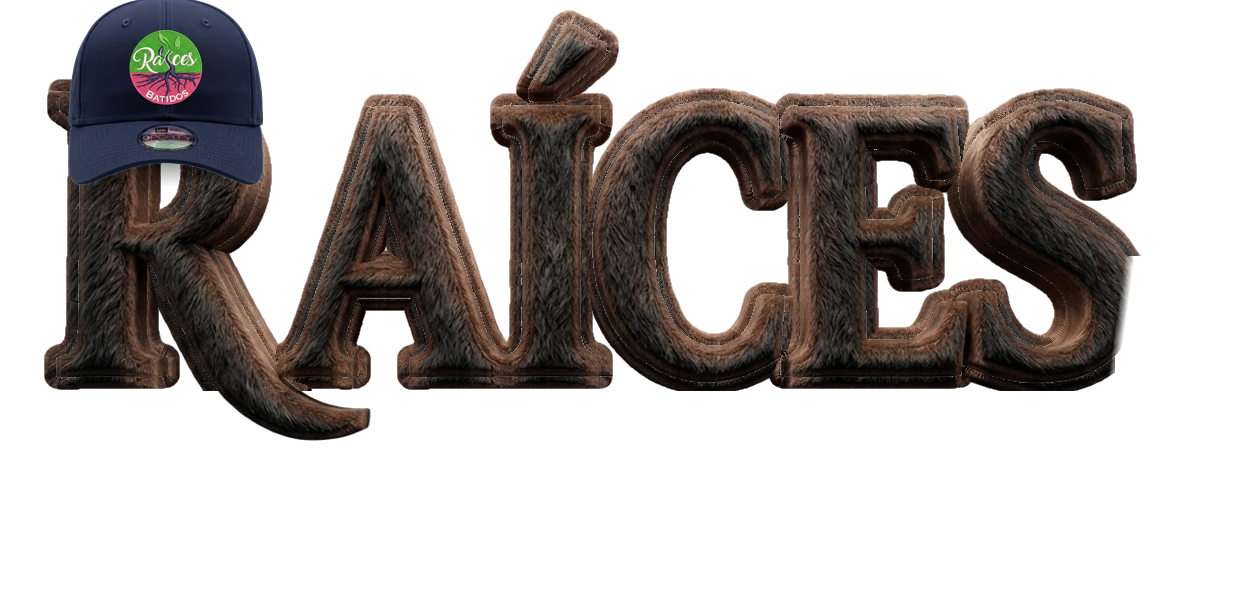
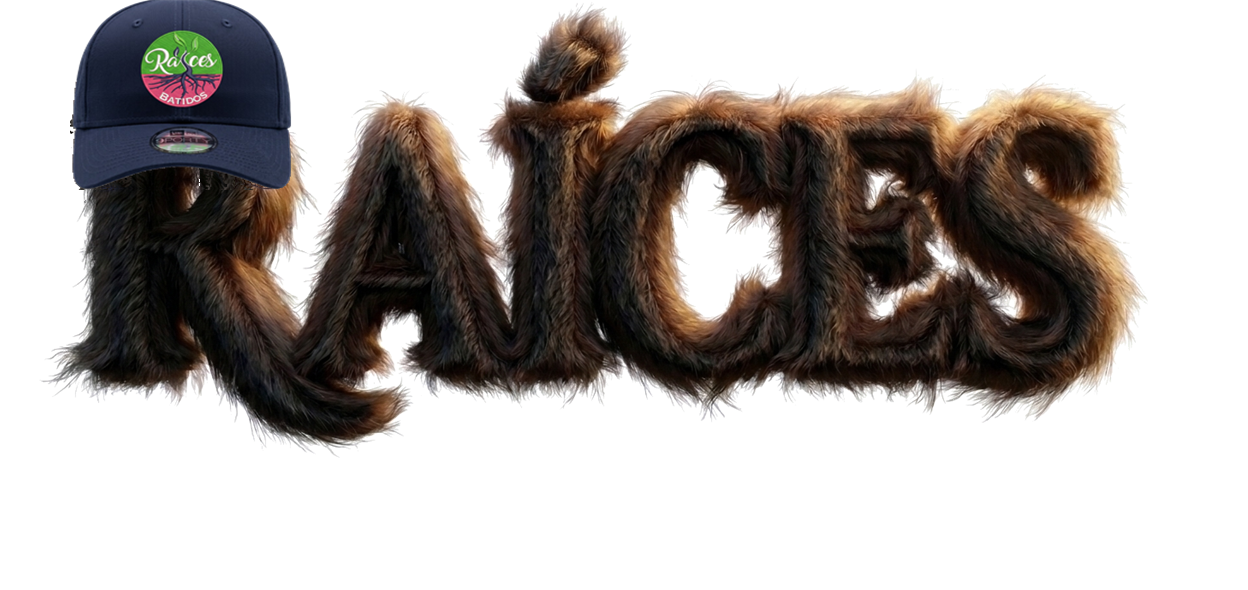
Mejora pelaje realista con brillo y matices en titulo hero del menu

diff --git a/src/main/resources/templates/menu.html b/src/main/resources/templates/menu.html
@@ -84,8 +84,8 @@ a{text-decoration:none;color:inherit}
 /* TÍTULO HERO ULTRA ELEGANTE BOTÁNICO + HÍBRIDO LEÓN 3D */
 .shine-luxury{background:linear-gradient(120deg,#ffffff 0%,#d1fae5 25%,#34d399 50%,#fef08a 75%,#ffffff 100%);background-size:250% 100%;-webkit-background-clip:text;background-clip:text;color:transparent;animation:luxuryGlow 7s ease-in-out infinite alternate;display:inline-block;filter:drop-shadow(0 0 28px rgba(52,211,153,.45)) drop-shadow(0 0 50px rgba(254,240,138,.25))}
 @keyframes luxuryGlow{0%{background-position:0% 50%;filter:drop-shadow(0 0 20px rgba(52,211,153,.35)) drop-shadow(0 0 40px rgba(16,185,129,.2))}50%{background-position:100% 50%;filter:drop-shadow(0 0 35px rgba(52,211,153,.6)) drop-shadow(0 0 65px rgba(254,240,138,.35))}100%{background-position:0% 50%;filter:drop-shadow(0 0 20px rgba(52,211,153,.35)) drop-shadow(0 0 40px rgba(16,185,129,.2))}}
-.hero-lion-3d{filter:drop-shadow(0 18px 34px rgba(0,0,0,.92)) drop-shadow(0 0 28px rgba(217,119,6,.35)) drop-shadow(0 0 40px rgba(16,185,129,.28));animation:lion3dFloat 6s ease-in-out infinite alternate;transform-origin:center center;will-change:transform,filter}
-@keyframes lion3dFloat{0%{transform:perspective(900px) translateY(0) scale(1) rotateX(0deg)}100%{transform:perspective(900px) translateY(-6px) scale(1.025) rotateX(2deg);filter:drop-shadow(0 24px 42px rgba(0,0,0,.96)) drop-shadow(0 0 36px rgba(245,158,11,.48)) drop-shadow(0 0 52px rgba(52,211,153,.38))}}
+.hero-lion-3d{filter:brightness(1.06) contrast(1.06) saturate(1.12) drop-shadow(0 18px 34px rgba(0,0,0,.92)) drop-shadow(0 0 28px rgba(217,119,6,.38)) drop-shadow(0 0 42px rgba(16,185,129,.28));animation:lion3dFloat 6s ease-in-out infinite alternate;transform-origin:center center;will-change:transform,filter}
+@keyframes lion3dFloat{0%{transform:perspective(900px) translateY(0) scale(1) rotateX(0deg)}100%{transform:perspective(900px) translateY(-6px) scale(1.025) rotateX(2deg);filter:brightness(1.12) contrast(1.08) saturate(1.16) drop-shadow(0 24px 42px rgba(0,0,0,.96)) drop-shadow(0 0 38px rgba(245,158,11,.52)) drop-shadow(0 0 54px rgba(52,211,153,.38))}}
 .chimp-tail-wag{transform-origin:90.0% 45.2%;animation:chimpTailWag 3.4s ease-in-out infinite;will-change:transform}
 @keyframes chimpTailWag{0%{transform:rotate(0deg) skewX(0deg)}25%{transform:rotate(4.2deg) skewX(2.5deg)}50%{transform:rotate(-1.2deg) skewX(-1deg)}75%{transform:rotate(-5.2deg) skewX(-3deg)}100%{transform:rotate(0deg) skewX(0deg)}}
 
@@ -403,8 +403,8 @@ section>.max-w-7xl{position:relative;z-index:2}
     
     <h1 class="hero-in mb-2 sm:mb-4 select-none leading-none flex items-center justify-center relative z-20" style="--d:.12s">
         <div id="hero-lion-title-wrap" class="hero-lion-3d relative inline-block w-[92vw] max-w-[440px] sm:max-w-[640px] md:max-w-[780px] lg:max-w-[900px]" style="overflow:visible">
-            <img id="hero-logo-cola-3d" src="titulo-raices-cola.png?v=2" alt="" aria-hidden="true" decoding="async" class="chimp-tail-wag absolute inset-0 w-full h-full object-contain pointer-events-none select-none z-10">
-            <img id="hero-logo-leon-3d" src="titulo-raices-chimpance-base.png?v=2" alt="RAÍCES" decoding="async" class="relative z-20 block w-full h-auto object-contain pointer-events-none select-none">
+            <img id="hero-logo-cola-3d" src="titulo-raices-cola.png?v=3" alt="" aria-hidden="true" decoding="async" class="chimp-tail-wag absolute inset-0 w-full h-full object-contain pointer-events-none select-none z-10">
+            <img id="hero-logo-leon-3d" src="titulo-raices-chimpance-base.png?v=9" alt="RAÍCES" decoding="async" class="relative z-20 block w-full h-auto object-contain pointer-events-none select-none">
             <div id="hero-parrot-stage" title="Loro Real RAÍCES · Vivo en 3D" style="position:absolute;left:70.0%;top:16.8%;width:40%;aspect-ratio:1/1;transform:translate(-50%,-62.4%);pointer-events:auto;z-index:35;cursor:pointer;overflow:visible">
                 <canvas id="hero-parrot-canvas" style="width:100%;height:100%;display:block;pointer-events:none"></canvas>
             </div>
